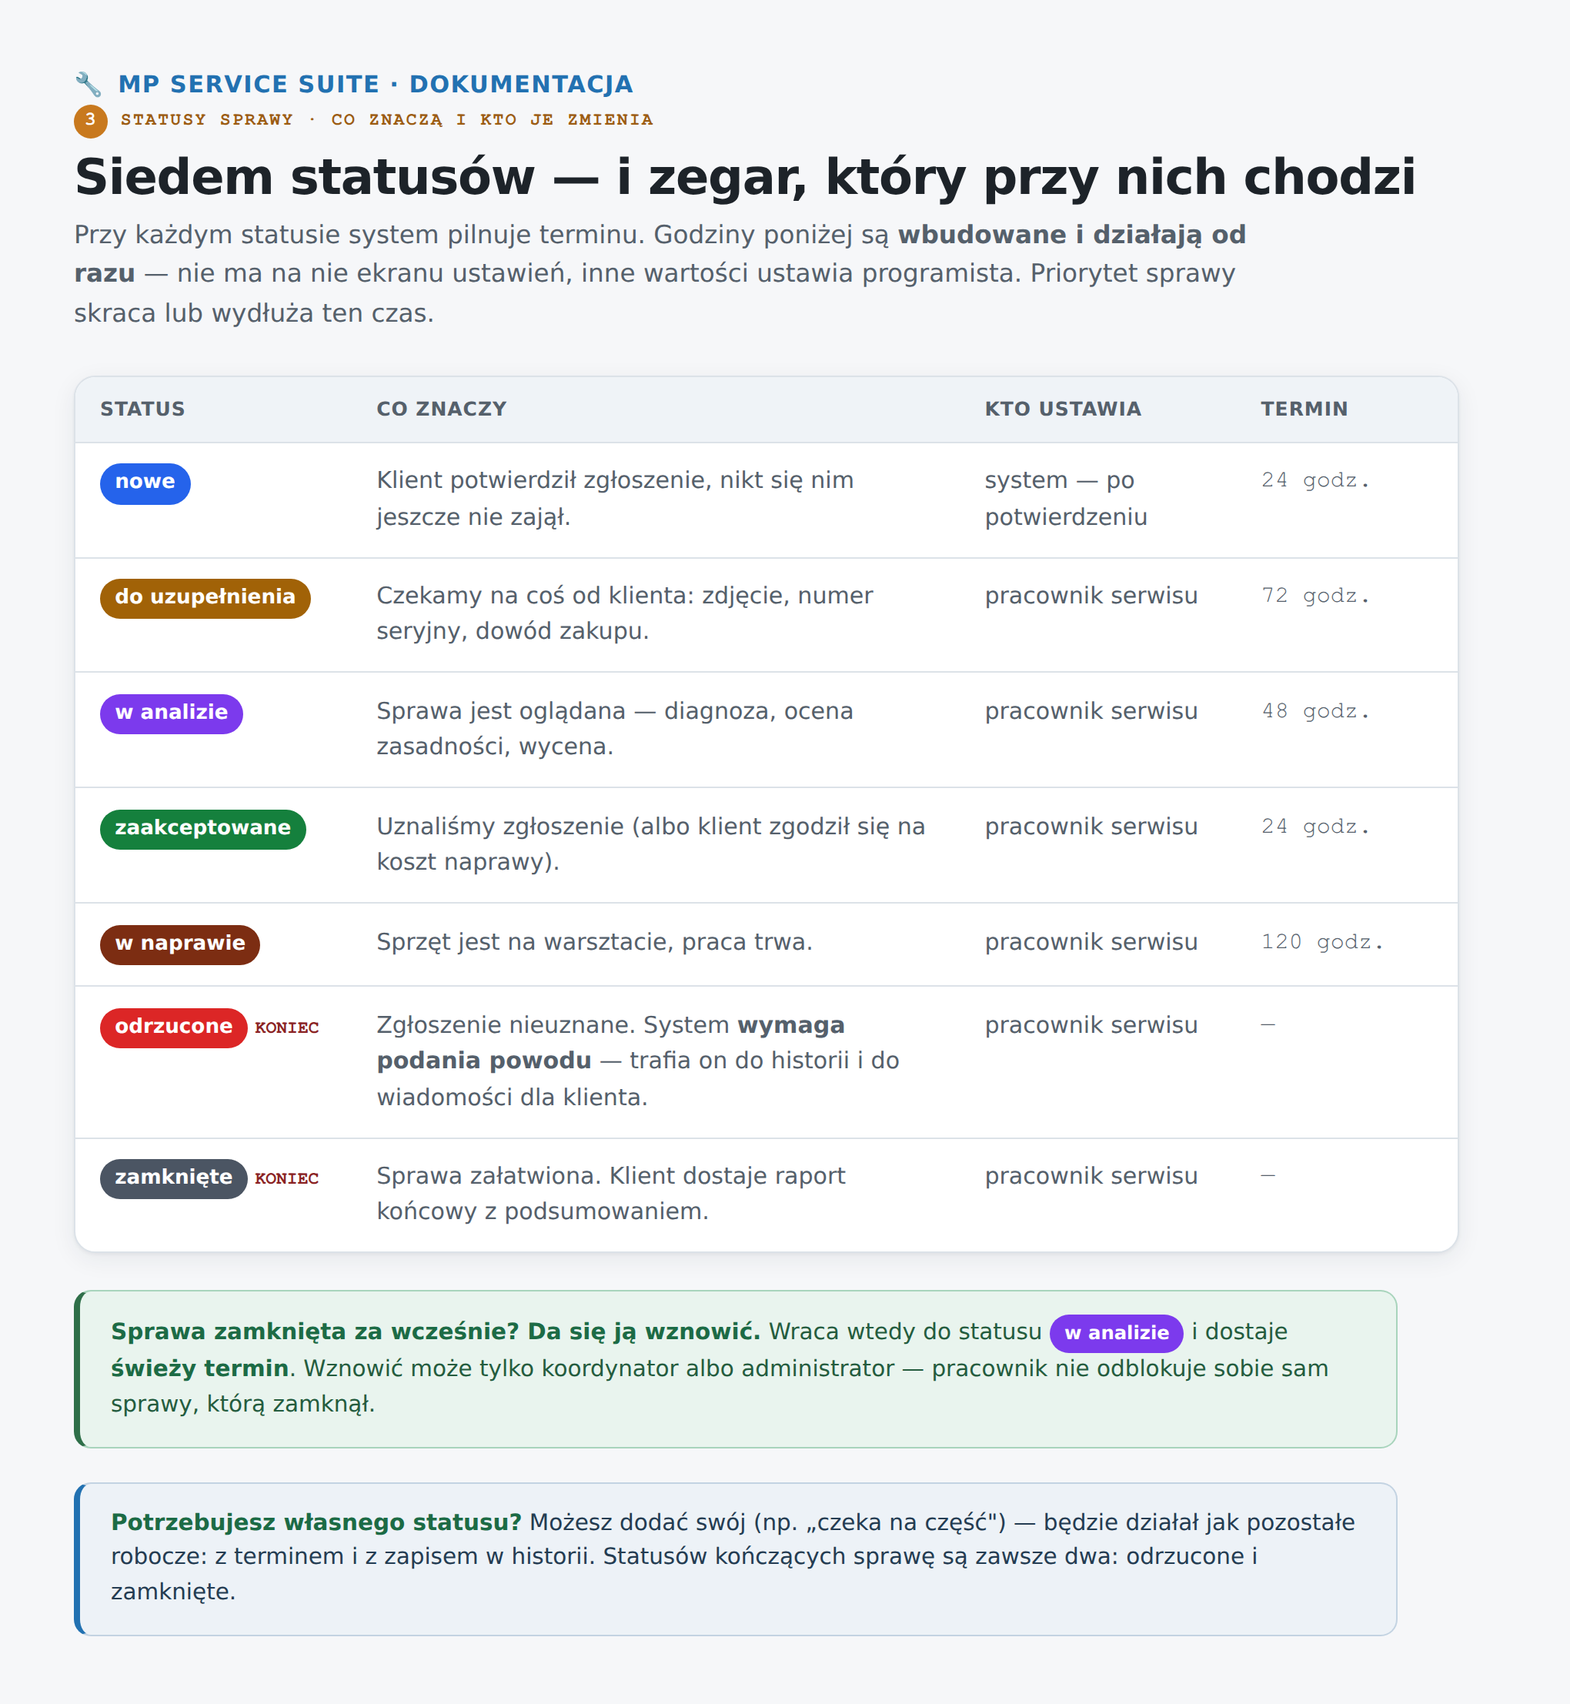
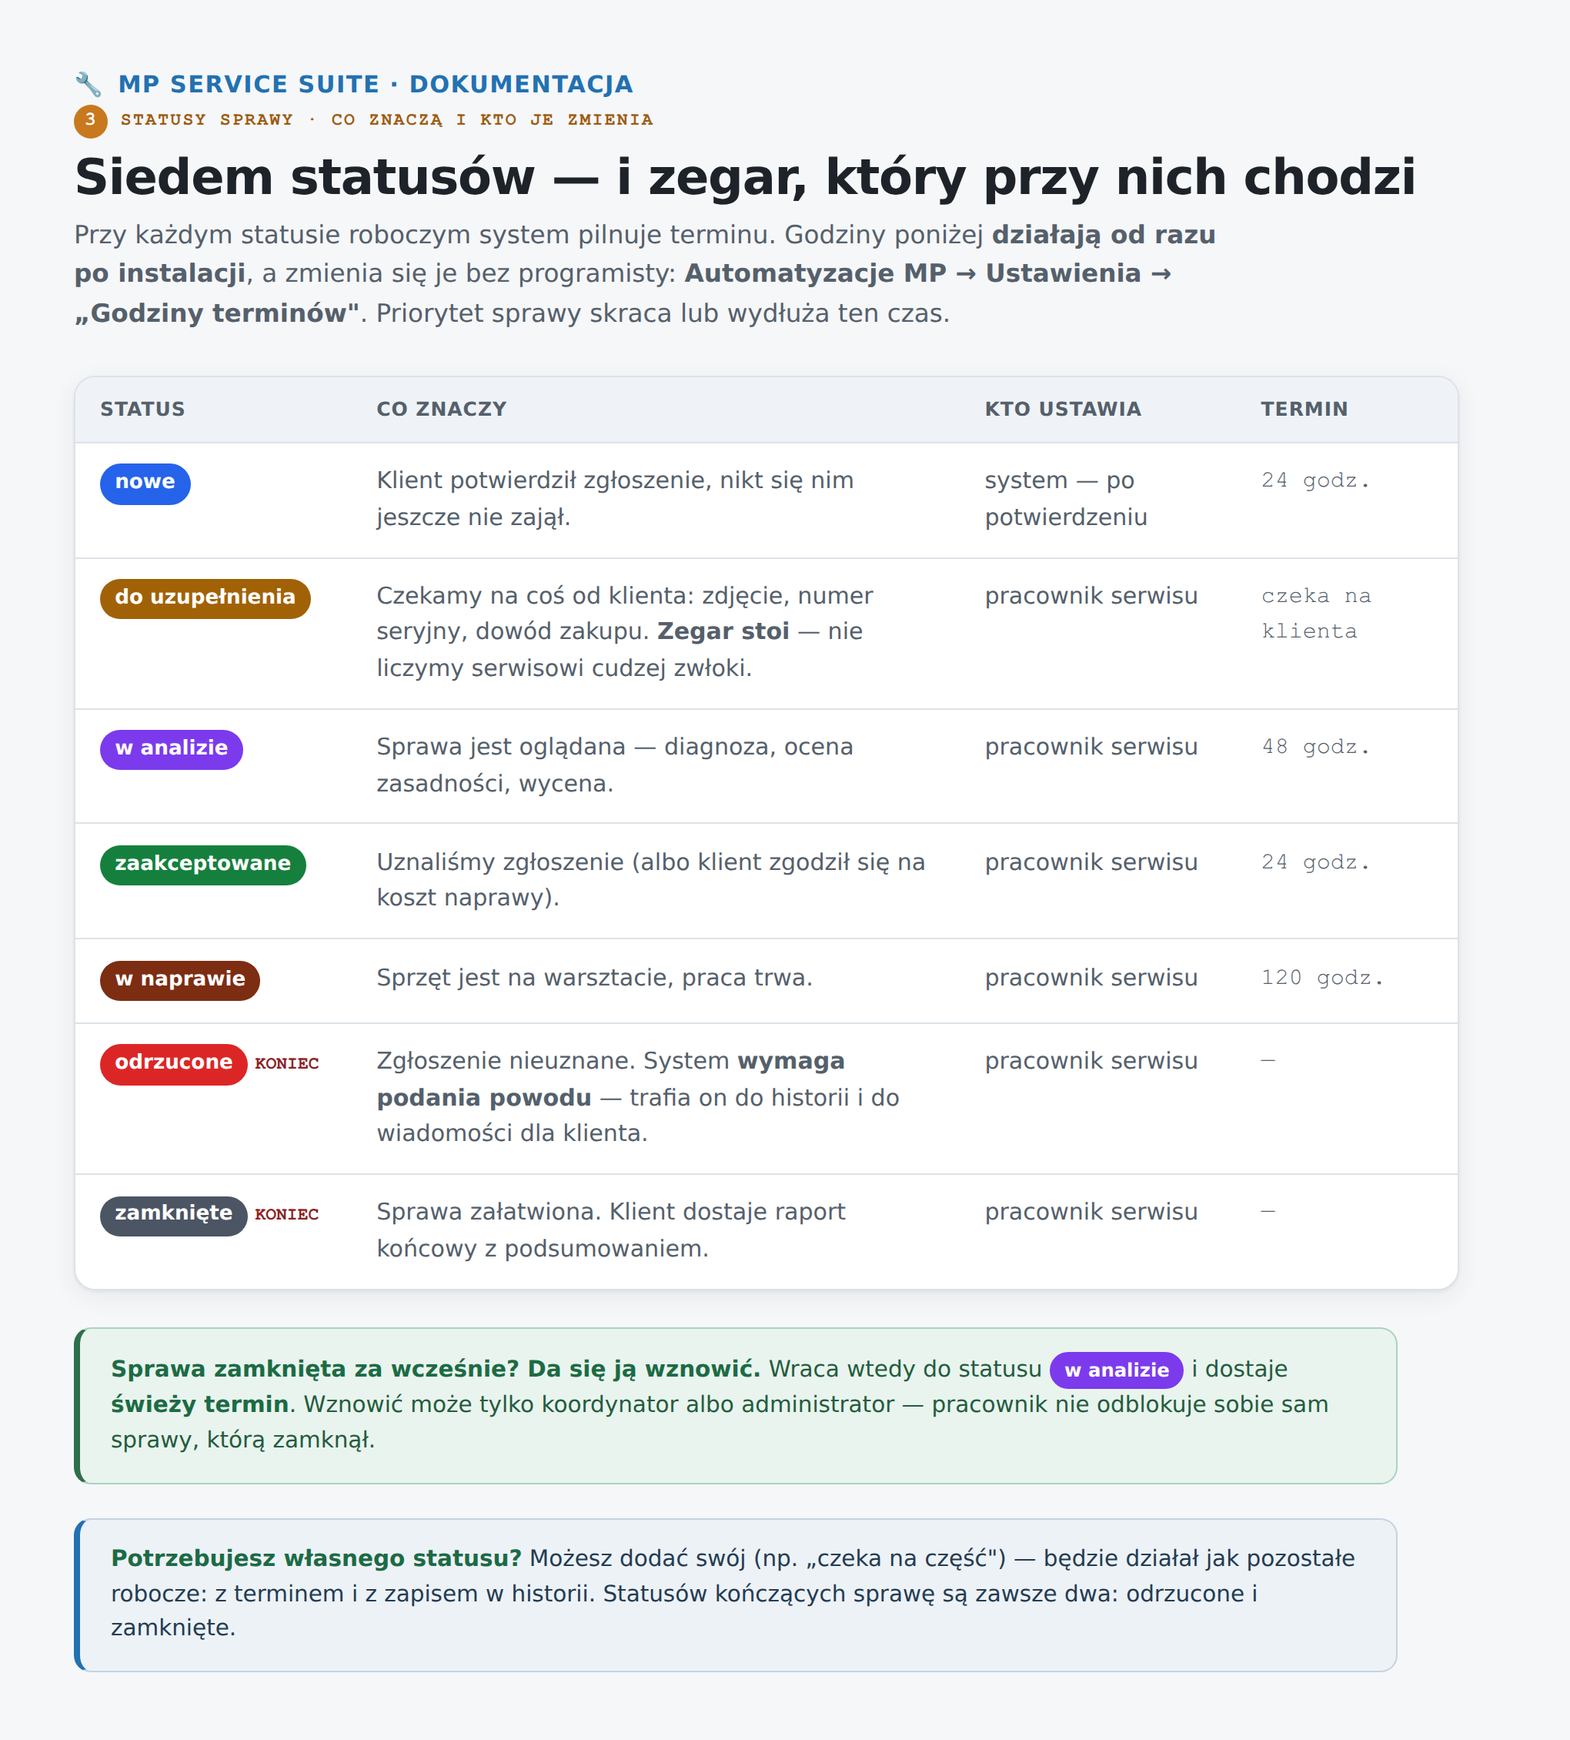
docs(dla-klienta): instrukcje mówią to, co produkt naprawdę robi po dzisiejszych naprawach (#258)
Sweep katalogu `dla-klienta/` po ~25 scaleniach z 4.08. Nie „co dopisać",
tylko CO PRZESTAŁO BYĆ PRAWDĄ: dla każdej naprawy pytanie, które zdanie
unieważniła, i sprawdzenie tego grepem po treści (nie po numerze linii —
po takim dniu numery są bezwartościowe).

10 zdań przestało być prawdą, w 5 plikach:
- reguły i godziny terminów: „nie ma na to ekranu, ustawia programista"
  — a ekran ustawień robi jedno i drugie,
- „statusu «odrzucone» nie ustawisz z panelu" (#237 to naprawił),
- „MP: Sprawy → Ustawienia ma jedną sekcję" — ma dwie,
- „poczekaj do następnego dnia" i „czy nie wysyłał już dziś kilku"
  — po 2.31 doba liczy się od PIERWSZEGO zgłoszenia, nie do północy,
- warunki reguł „kraj/język" bez ostrzeżenia, że nie zadziałają,
- lista ekranów po instalacji bez podstron Ustawienia i Wyjątków,
- diagram statusów: „do uzupełnienia — 72 godz." przy liczniku, który
  od #255 STOI, i podpis odsyłający do programisty.

6 funkcji nie miało opisu — dopisane: powody odrzucenia (bez nich nikt
nie odrzuci sprawy), pauza licznika i napis „czeka na klienta" dla
PRACOWNIKA (koordynator to miał, pracownik nie), podstrony Ustawienia,
plus-adresowanie w limicie, ślad zmiany kontaktu na osi, JSON w polu
„Szczegóły akcji" (żeby „bez programisty" nie było obietnicą na wyrost).

Diagram 03 przerenderowany ze źródła; pozostałe trzy PNG wyszły bajtowo
identyczne, więc zmiana dotyczy wyłącznie tego jednego.

Dowodem przy dokumencie jest CYTAT z kodu — plik i linia przy każdej
[…]

diff --git a/dla-klienta/diagramy-zrodla/03-statusy-sprawy.html b/dla-klienta/diagramy-zrodla/03-statusy-sprawy.html
@@ -6,9 +6,9 @@
 <div class="brand"><span>🔧</span> MP Service Suite · dokumentacja</div>
 <div class="eyebrow"><span class="num">3</span> Statusy sprawy · co znaczą i kto je zmienia</div>
 <h1>Siedem statusów — i zegar, który przy nich chodzi</h1>
-<p class="sub">Przy każdym statusie system pilnuje terminu. Godziny poniżej są <b>wbudowane
-   i działają od razu</b> — nie ma na nie ekranu ustawień, inne wartości ustawia programista.
-   Priorytet sprawy skraca lub wydłuża ten czas.</p>
+<p class="sub">Przy każdym statusie roboczym system pilnuje terminu. Godziny poniżej <b>działają
+   od razu po instalacji</b>, a zmienia się je bez programisty: <b>Automatyzacje MP → Ustawienia →
+   „Godziny terminów"</b>. Priorytet sprawy skraca lub wydłuża ten czas.</p>
 
 <div class="statusy">
   <table>
@@ -26,9 +26,10 @@
     </tr>
     <tr>
       <td><span class="plakietka p-uzup">do uzupełnienia</span></td>
-      <td>Czekamy na coś od klienta: zdjęcie, numer seryjny, dowód zakupu.</td>
+      <td>Czekamy na coś od klienta: zdjęcie, numer seryjny, dowód zakupu.
+          <b>Zegar stoi</b> — nie liczymy serwisowi cudzej zwłoki.</td>
       <td>pracownik serwisu</td>
-      <td class="zegar">72 godz.</td>
+      <td class="zegar">czeka na klienta</td>
     </tr>
     <tr>
       <td><span class="plakietka p-analiza">w analizie</span></td>

diff --git a/dla-klienta/INSTRUKCJA-KLIENTA.md b/dla-klienta/INSTRUKCJA-KLIENTA.md
@@ -86,8 +86,11 @@ Dla **każdego** z 3 plików ZIP:
   - **„Panel zgłoszeń"** — logowanie klienta i podgląd jego spraw.
 - Powstają **4 role** użytkowników (patrz §6). Twoje konto administratora dostaje pełne uprawnienia do ekranów systemu.
 - W menu bocznym pojawiają się ekrany: **MP: Sprawy** (lista zgłoszeń), **MP: Niepotwierdzone**
-  (zgłoszenia, których klient jeszcze nie potwierdził mailem), **Rejestr MP** (produkty i gwarancje)
-  oraz **Automatyzacje MP** (przydział, terminy, raporty).
+  (zgłoszenia, których klient jeszcze nie potwierdził mailem), **Rejestr MP** (produkty i gwarancje,
+  a pod nim **Wyjątki gwarancyjne**) oraz **Automatyzacje MP** (przydział, terminy, raporty).
+- **Każda z trzech wtyczek ma własną podstronę „Ustawienia"** — to tam konfiguruje się system
+  bez programisty (statusy własne, godziny terminów, reguły przydziału, powody odrzucenia,
+  kasowanie danych przy odinstalowaniu). Szczegóły: §5.3 niżej i `instrukcje/ADMIN.md` §1a.
 
 > Strony, role i uprawnienia zakładają się **same** przy włączeniu — system rusza od razu.
 > Żeby jednak zaczął pracować za Ciebie (przydzielać sprawy, liczyć terminy, sprawdzać gwarancje),
@@ -129,9 +132,16 @@ Od tej chwili stronę widzisz tylko Ty (jako zalogowany administrator), a klienc
 > zgłoszenie wysłane **dwa razy w ciągu 15 minut** nie zakłada drugiej sprawy — to ochrona przed
 > podwójnym kliknięciem, a nie błąd.
 >
-> Gdy klient mówi „nie mogę wysłać zgłoszenia", **najpierw sprawdź, czy nie wysyłał już dziś kilku** —
-> to najczęstsza przyczyna. Progi da się zmienić, ale wymaga to kilku linijek od programisty
-> (opis w `SECURITY.md`, w dokumentacji dla informatyka).
+> ⏱ **„Na dobę" znaczy 24 godziny od PIERWSZEGO z tych zgłoszeń, a nie „do północy".** Kto
+> wysłał trzecie zgłoszenie o 23:00, odblokuje się dopiero następnego dnia o tej samej godzinie,
+> nie rano. Podawaj konkretną godzinę, nie „jutro".
+> ✉ **Adresy z plusem to jeden i ten sam adres.** `jan+1@`, `jan+2@` i `jan@` liczą się do
+> **jednego** limitu, bo poczta i tak idzie do jednej skrzynki — inaczej limit dałoby się obejść
+> w sekundę. Zgłaszający, który „zmienił adres" i dalej dostaje odmowę, nie ma awarii.
+>
+> Gdy klient mówi „nie mogę wysłać zgłoszenia", **najpierw sprawdź, czy nie wysyłał już kilku
+> w ciągu ostatniej doby** — to najczęstsza przyczyna. Progi da się zmienić, ale wymaga to kilku
+> linijek od programisty (opis w `SECURITY.md`, w dokumentacji dla informatyka).
 > ⚠ Jeśli Twoja strona stoi **za pośrednikiem** (np. Cloudflare), przeczytaj też §7.4 — wtedy
 > limit na łącze może objąć **wszystkich** klientów naraz.
 - **Załącznik zależy od kategorii.** Dla kategorii **„AGD drobne"** i **„Elektronarzędzia"** zdjęcie tabliczki
@@ -208,25 +218,47 @@ Od tej chwili stronę widzisz tylko Ty (jako zalogowany administrator), a klienc
   round-robin) → **Zapisz listę pracowników**.
 - **Pusta lista = przydział nie działa** (sprawy zostają „nieprzydzielone"). Tabela reguł pisze o tym
   wprost przy regule przydziału, a **Narzędzia → Stan witryny** pokazuje to jako problem do naprawienia.
-- Reguły opisane są po polsku: KIEDY (np. nowa sprawa) → JEŚLI (kategoria/kraj/język/priorytet)
-  → ZRÓB (przydziel / zmień status / ustaw priorytet / powiadom). ⚠ Sama **treść reguł jest wbudowana
-  i pokazywana tylko do odczytu** — z panelu ustawia się listę pracowników; dołożenie nowej reguły
-  to zadanie dla programisty.
+- Reguły opisane są po polsku: KIEDY (nowa sprawa / zmiana statusu / nowa wiadomość) → JEŚLI
+  (kategoria produktu, rodzaj sprawy, status, priorytet) → ZRÓB (przydziel / zmień status /
+  ustaw priorytet / powiadom). **Reguły dokładasz, wyłączasz i zmieniasz sam** w **Automatyzacje MP
+  → Ustawienia**, sekcja „Reguły przydziału i powiadomień" → **Zapisz reguły**. Kolejność
+  sprawdzania ustawia numer; pusty warunek znaczy „pasuje zawsze".
+  ⚠ Jedno pole jest techniczne: **„Szczegóły akcji" wpisuje się w zapisie JSON**
+  (np. `{"new_status":"w analizie"}`) — gotowe wzory dla każdej akcji są **na tym samym ekranie,
+  pod polem**. Reszta to listy wyboru.
+  ⚠ Na liście warunków są też **„kraj" i „język" — one nigdy nie dopasują żadnej sprawy**,
+  bo produkt tych danych nigdzie nie zbiera. Ekran mówi to wprost, nad tabelą; nie buduj
+  na nich reguły.
 
 **Terminy SLA:**
-- Terminy są **wbudowane i liczą się same**: nowe zgłoszenie — 24 h na pierwszą reakcję,
-  „w analizie" — 48 h, „zaakceptowane" — 24 h. Przypomnienie wychodzi po upływie 75 % czasu.
-  ⚠ Nie ma ekranu do zmiany tych godzin — inne wartości ustawia programista.
+- Terminy liczą się same, a **godziny ustawiasz sam** w **Automatyzacje MP → Ustawienia**,
+  sekcja „Godziny terminów (statusy wbudowane)" → **Zapisz godziny terminów**.
+  Termin statusu WŁASNEGO ustawia się przy nim samym, w sekcji „Statusy własne". Wartości domyślne: nowe zgłoszenie —
+  24 h na pierwszą reakcję, „w analizie" — 48 h, „zaakceptowane" — 24 h, „w naprawie" — 120 h.
+  Przypomnienie wychodzi po upływie 75 % czasu. Priorytet wysoki skraca termin o połowę, niski
+  podwaja.
+- ⏸ **Status „do uzupełnienia" nie ma terminu — i tak ma być.** To jedyny status, w którym
+  czekamy na ruch klienta (zdjęcie, dokument, odpowiedź), więc **zegar stoi**: serwis nie dostaje
+  przekroczenia za cudzą zwłokę i nie idzie z tego eskalacja. Na liście spraw i na karcie zobaczysz
+  wtedy napis **„czeka na klienta"** zamiast daty — **to nie jest awaria ani brak danych**. Zegar
+  rusza od nowa przy zmianie statusu na roboczy. Sprawa zaparkowana tu na stałe nie znika z radaru:
+  łapie ją osobna miara wieku sprawy.
+- Statusy „odrzucone" i „zamknięte" terminu nie mają (kończą sprawę).
 - System sam wysyła pracownikowi **przypomnienie przed terminem** i **eskalację do koordynatora
   po terminie**. Sprawdzanie chodzi co 5 minut (patrz nota §7.3 — na produkcji ustaw systemowy cron).
+- ⚠ Zmiana godzin **nie przelicza sama spraw już otwartych** — po zapisie użyj akcji
+  **„Przelicz terminy obsługi"** w panelu automatyzacji.
 
 **Statusy spraw:**
 - 7 statusów podstawowych (nowe / do uzupełnienia / w analizie / zaakceptowane / odrzucone /
   w naprawie / zamknięte) jest wbudowanych i nieusuwalnych. **Własne statusy dokładasz sam**
   w **Automatyzacje MP → Ustawienia**, sekcja „Statusy własne": klucz techniczny, nazwa widoczna,
   czy aktywny, czy kończy sprawę oraz termin i moment ostrzeżenia. Programista nie jest potrzebny.
-- Odrzucenie sprawy zawsze wymaga podania powodu. **Wznowić zamkniętą sprawę może tylko
-  koordynator** (i tylko do statusu „w analizie").
+- Odrzucenie sprawy zawsze wymaga podania powodu — a powody **musisz najpierw wpisać**:
+  **MP: Sprawy → Ustawienia**, sekcja „Powody odrzucenia sprawy" → **Zapisz powody odrzucenia**.
+  ⚠ **Dopóki lista jest pusta, pracownik nie zapisze statusu „odrzucone"** (pole powodu się nie
+  pojawi, a zapis bez powodu jest odrzucany). To jeden z pierwszych kroków konfiguracji.
+- **Wznowić zamkniętą sprawę może tylko koordynator** (i tylko do statusu „w analizie").
 
 **Szablony i checklisty:**
 - **Automatyzacje MP → sekcja „Checklisty i szablony odpowiedzi"** — gotowe treści maili z podstawianymi polami (numer sprawy,

diff --git a/dla-klienta/instrukcje/ADMIN.md b/dla-klienta/instrukcje/ADMIN.md
@@ -33,12 +33,19 @@ Każda z trzech wtyczek ma własny ekran **Ustawienia**. Najważniejszy jest ten
 | Sekcja | Co ustawiasz |
 |---|---|
 | **Statusy własne** | dokładasz własne statusy obok siedmiu wbudowanych: klucz techniczny, nazwa widoczna, czy aktywny, czy kończy sprawę, termin w godzinach i moment ostrzeżenia. Siedmiu wbudowanych nie da się usunąć |
-| **Godziny terminów** | ile godzin sprawa może stać w danym statusie, zanim minie termin. Priorytet wysoki skraca termin o połowę, niski podwaja. Statusy „odrzucone" i „zamknięte" terminu nie mają |
-| **Reguły przydziału** | warunki, po których automat rozdziela sprawy. ⚠ Warunki **„kraj" i „język" nie zadziałają** — produkt nigdzie tych danych nie zbiera, więc reguła oparta na nich nie dopasuje żadnej sprawy. Ekran mówi to wprost |
+| **Godziny terminów (statusy wbudowane)** | ile godzin sprawa może stać w danym statusie, zanim minie termin. Priorytet wysoki skraca termin o połowę, niski podwaja. Statusy „odrzucone" i „zamknięte" terminu nie mają |
+| **Reguły przydziału i powiadomień** | dokładasz i wyłączasz reguły: KIEDY → JEŚLI → ZRÓB, z numerem kolejności. Pole **„Szczegóły akcji" to zapis JSON** (wzory pod polem, np. `{"new_status":"w analizie"}`); reszta to listy wyboru. ⚠ Warunki **„kraj" i „język" nie zadziałają** — produkt nigdzie tych danych nie zbiera, więc reguła oparta na nich nie dopasuje żadnej sprawy. Ekran mówi to wprost |
 | **Kasowanie danych przy odinstalowaniu** | czy odinstalowanie wtyczki ma skasować dane. **Domyślnie wyłączone** |
 
-**Rejestr MP → Ustawienia** i **MP: Sprawy → Ustawienia** mają po jednej sekcji: kasowanie danych
-przy odinstalowaniu tej wtyczki (też domyślnie wyłączone).
+**MP: Sprawy → Ustawienia** — dwie sekcje, każda z własnym przyciskiem:
+
+| Sekcja | Co ustawiasz |
+|---|---|
+| **Powody odrzucenia sprawy** | lista powodów, z której pracownik wybiera przy odrzuceniu. ⛔ **Dopóki jest pusta, nikt nie zapisze statusu „odrzucone"** — pole powodu się nie pojawi, a zapis bez powodu system odrzuca. Wypełnij ją przy wdrożeniu |
+| **Kasowanie danych przy odinstalowaniu** | czy odinstalowanie tej wtyczki ma skasować jej dane. **Domyślnie wyłączone** |
+
+**Rejestr MP → Ustawienia** ma jedną sekcję: kasowanie danych przy odinstalowaniu tej wtyczki
+(też domyślnie wyłączone).
 
 > ⚠ Zmiana godzin terminów nie przelicza sama spraw już otwartych — po zapisie użyj akcji
 > **„Przelicz terminy obsługi"** w panelu automatyzacji.

diff --git a/dla-klienta/instrukcje/PRACOWNIK.md b/dla-klienta/instrukcje/PRACOWNIK.md
@@ -33,16 +33,25 @@ Kliknij numer sprawy. Na karcie masz wszystko:
 - **Wiadomości** — rozmowa z klientem; możesz użyć gotowego szablonu odpowiedzi (pola typu numer
   sprawy podstawiają się same),
 - **Zmiana statusu** — prowadź sprawę po statusach (nowe → w analizie → … → zamknięte).
-  ⚠ **Statusu „odrzucone" nie ustawisz w tej wersji z panelu.** Odrzucenie wymaga powodu
-  z listy powodów, a lista nie jest skonfigurowana — pole powodu nie pojawia się przy
-  akcjach, więc próba zapisu kończy się komunikatem o braku powodu. Jeśli sprawa ma zostać
-  odrzucona, ustal dalszy krok z koordynatorem.
+  **Odrzucenie wymaga wybrania powodu** z listy — pole powodu pojawia się przy statusie
+  „odrzucone" i bez niego zapis się nie uda. Jeśli lista powodów jest pusta (nikt jej jeszcze
+  nie wypełnił), poproś administratora systemu — uzupełnia ją w **MP: Sprawy → Ustawienia**.
+
+Zmiana danych kontaktowych przez klienta **zostawia ślad na osi zdarzeń** (sam fakt i nazwy
+zmienionych pól, bez wartości — numer telefonu jest daną osobową). Zanim zadzwonisz pod numer
+z góry karty, rzuć okiem na oś: jeśli klient go poprawił, dzwonisz pod stary.
 
 ## 3. Terminy (SLA)
 
 - Przy każdej otwartej sprawie widzisz **termin pierwszej reakcji**.
 - **Przed terminem** system wyśle Ci przypomnienie mailem. **Po terminie** sprawa eskaluje
   do koordynatora — nie chowaj trudnych spraw, po prostu pisz do klienta i zmieniaj statusy.
+- ⏸ **Gdy przestawisz sprawę na „do uzupełnienia", zegar STAJE** — czekamy wtedy na klienta
+  (zdjęcie, dokument, odpowiedź) i nie liczymy tego czasu Tobie. W kolumnie terminu i na karcie
+  zobaczysz napis **„czeka na klienta"** zamiast daty. **To nie jest awaria ani zgubiony termin.**
+  Zegar rusza od nowa, gdy przestawisz sprawę na status roboczy.
+  ⚠ Sprawa nie znika przez to z radaru — osobna miara pokazuje, jak długo w ogóle stoi.
+  Używaj tego statusu wtedy, gdy naprawdę czekasz na klienta, a nie żeby zatrzymać termin.
 
 ## 4. Eksport
 

diff --git a/dla-klienta/instrukcje/KLIENT.md b/dla-klienta/instrukcje/KLIENT.md
@@ -91,5 +91,6 @@ jest „Anuluj":
 | Nie dostałem maila potwierdzającego | Sprawdź spam; upewnij się, że adres był poprawny. Możesz wysłać zgłoszenie jeszcze raz. |
 | Link do logowania „nieaktualny" | Link żyje 20 minut i działa raz — poproś o nowy na stronie panelu. |
 | Wysłałem zgłoszenie dwa razy | System sam łapie duplikaty — drugie identyczne zgłoszenie w krótkim czasie nie tworzy nowej sprawy. |
-| „Zbyt wiele zgłoszeń" — nie mogę wysłać kolejnego | To ochrona przed spamem, nie awaria. Z jednego adresu e-mail można wysłać **3 zgłoszenia na dobę**, a dla jednego numeru seryjnego — 5. Poczekaj do następnego dnia albo napisz w sprawie, którą już masz założoną. |
+| „Zbyt wiele zgłoszeń" — nie mogę wysłać kolejnego | To ochrona przed spamem, nie awaria. Z jednego adresu e-mail można wysłać **3 zgłoszenia na dobę**, a dla jednego numeru seryjnego — 5. **Doba liczy się od pierwszego z tych zgłoszeń**, więc jeśli wysłałeś je wieczorem, odblokujesz się następnego dnia **o tej samej porze**, a nie rano. Nie czekaj bezczynnie — **napisz wiadomość w sprawie, którą już masz założoną**; to trafia do serwisu od razu i nie podlega limitowi. |
+| Zmieniłem adres na `moj+cos@…` i dalej nie mogę wysłać | Adresy z plusem to dla systemu **ten sam adres** (poczta i tak idzie do jednej skrzynki), więc liczą się do jednego limitu. To działa zgodnie z zamierzeniem — patrz wiersz wyżej. |
 | Chcę dosłać zdjęcie do sprawy | Napisz wiadomość w sprawie w panelu — serwis się odezwie. |
